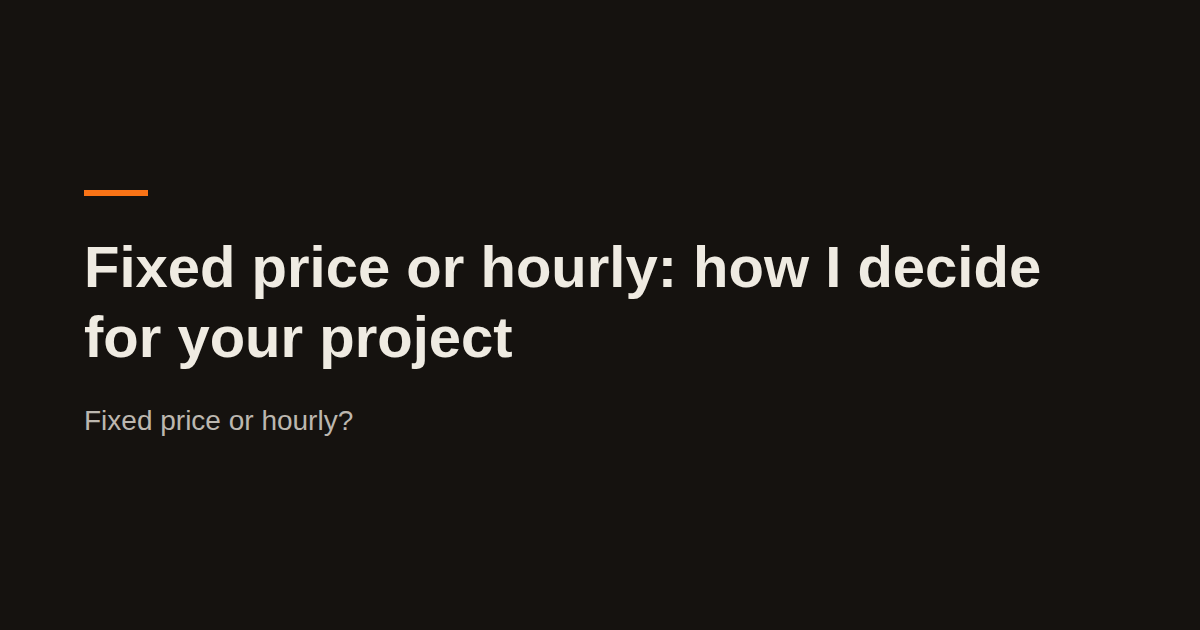
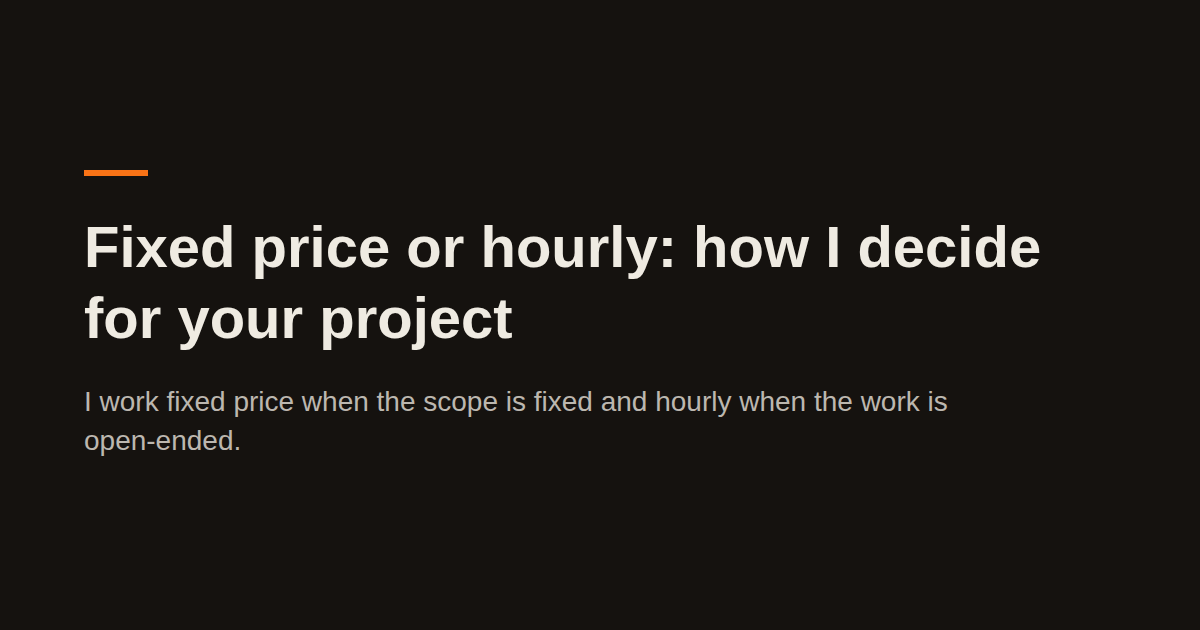
docs(blog): say which promises hold on which service

Changed region(s): [[0.0617, 0.3619, 0.8633, 0.7238], [0.0617, 0.2714, 0.1233, 0.3317]]

diff --git a/content/blog/fixed-price-or-hourly.md b/content/blog/fixed-price-or-hourly.md
@@ -1,12 +1,12 @@
 ---
 title: "Fixed price or hourly: how I decide for your project"
-description: "Fixed price or hourly? I work fixed price when the scope is fixed and hourly when the work is open-ended. When each fits, how a scope change is quoted, and what stays the same."
+description: "I work fixed price when the scope is fixed and hourly when the work is open-ended. When each fits, how a scope change is quoted, and which promises hold either way."
 tldr:
   - "I work fixed price when the scope is fixed, and hourly for staff augmentation, code reviews, or when the work is open-ended."
   - "If the scope changes after we start, you get a quote for the change before I start on it. No surprise costs."
   - "On hourly work I bill only the hours I spend on your project, never the time an AI agent runs on its own."
   - "A build and ongoing work both start with a small first milestone, a five-day refund and full ownership from day one."
-intro: "Fixed price or hourly is one of the first questions when you hire a developer. My answer is one sentence, and this post explains it: how to tell which side your project is on, what happens when the scope changes, and what stays the same whichever way you pay."
+intro: "Fixed price or hourly is one of the first questions when you hire a developer. My answer is one sentence, and this post explains it: how to tell which side your project is on, what happens when the scope changes, and which promises hold whichever way you pay."
 coverImage: "/img/blog/fixed-price-or-hourly/cover.png"
 coverAlt: "The pricing question on my How I work page: \"Do you work fixed price or hourly, and what happens when the scope changes?\" with its answer and a link to how hourly billing works with AI."
 publishedAt: "2026-10-30"
@@ -83,7 +83,7 @@ On a build you see working software every week, with a short written update. So
 you always know where the project stands, instead of finding out at the end what
 the fixed price bought you.
 
-## Why does every engagement start small?
+## Why do a build and ongoing work start small?
 
 A build and ongoing work both start with a small first milestone: one or two
 weeks of work. If either of us wants to stop at the end of it, we stop, and you
@@ -95,19 +95,19 @@ right. That holds whether the rest is a fixed price or hourly.
 
 ## What stays the same either way?
 
-The way you pay changes the invoice, not what you can hold me to:
+Three promises hold whether a build is fixed price or ongoing work is hourly:
 
-1. **A five-day refund.** If in the first five days you feel it is not working,
-   tell me and I refund what you paid. This one covers the strategy session and
-   the audit too.
-2. **A small first milestone**, on a build and on ongoing work, as above.
-3. **Full ownership from day one.** The code, the accounts, the servers and the
-   keys are in your name, on a build and on ongoing work.
-4. **Free bug fixes for 30 days** on a build: bugs in what I delivered are fixed
-   on my time.
+1. **A five-day refund**, on every service, the strategy session and the audit
+   included. If in the first five days you feel it is not working, tell me and I
+   refund what you paid.
+2. **A small first milestone**, on a build and on ongoing work alike, as above.
+3. **Full ownership from day one**, on a build and on ongoing work alike. The
+   code, the accounts, the servers and the keys are in your name.
 
-All five promises, in the order a project meets them, are on
-[How I work](/how-i-work).
+One promise comes with a fixed-price build only: **free bug fixes for 30 days**.
+Bugs in what I delivered are fixed on my time.
+
+The full list of promises is on [How I work](/how-i-work).
 
 ## Not sure which side your project is on?
 
